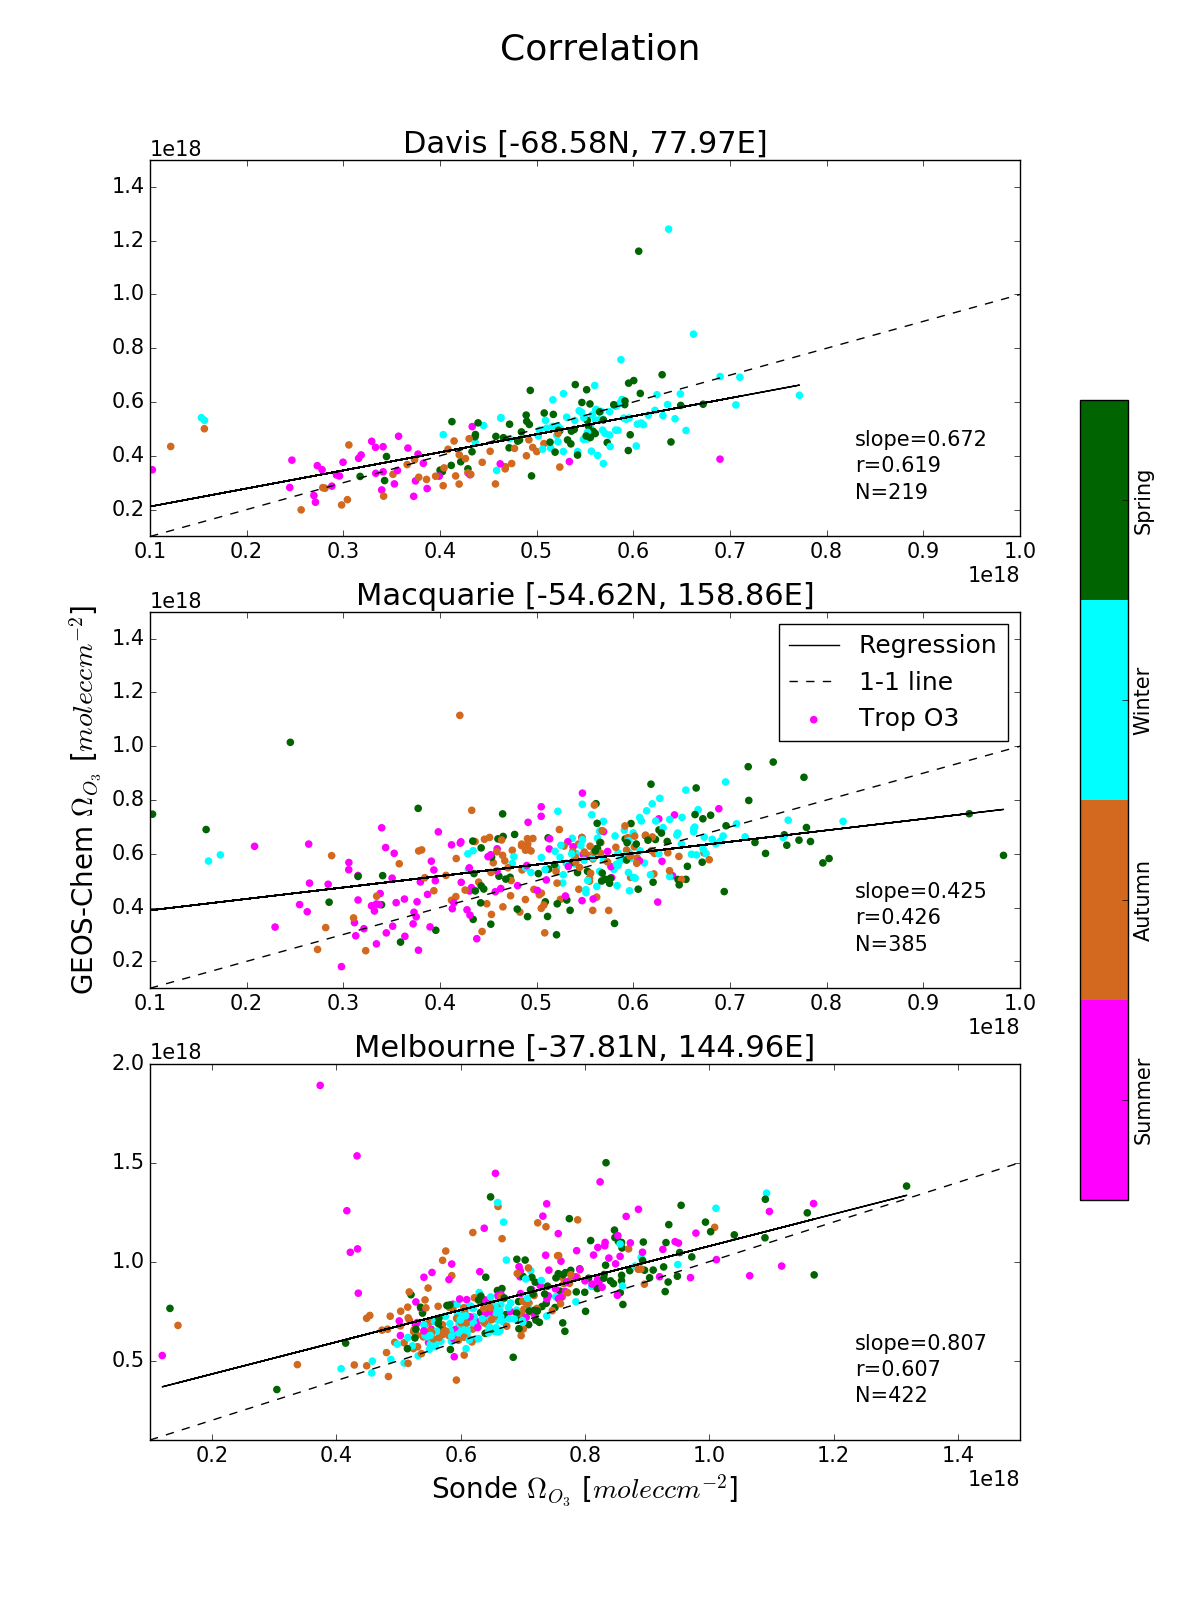
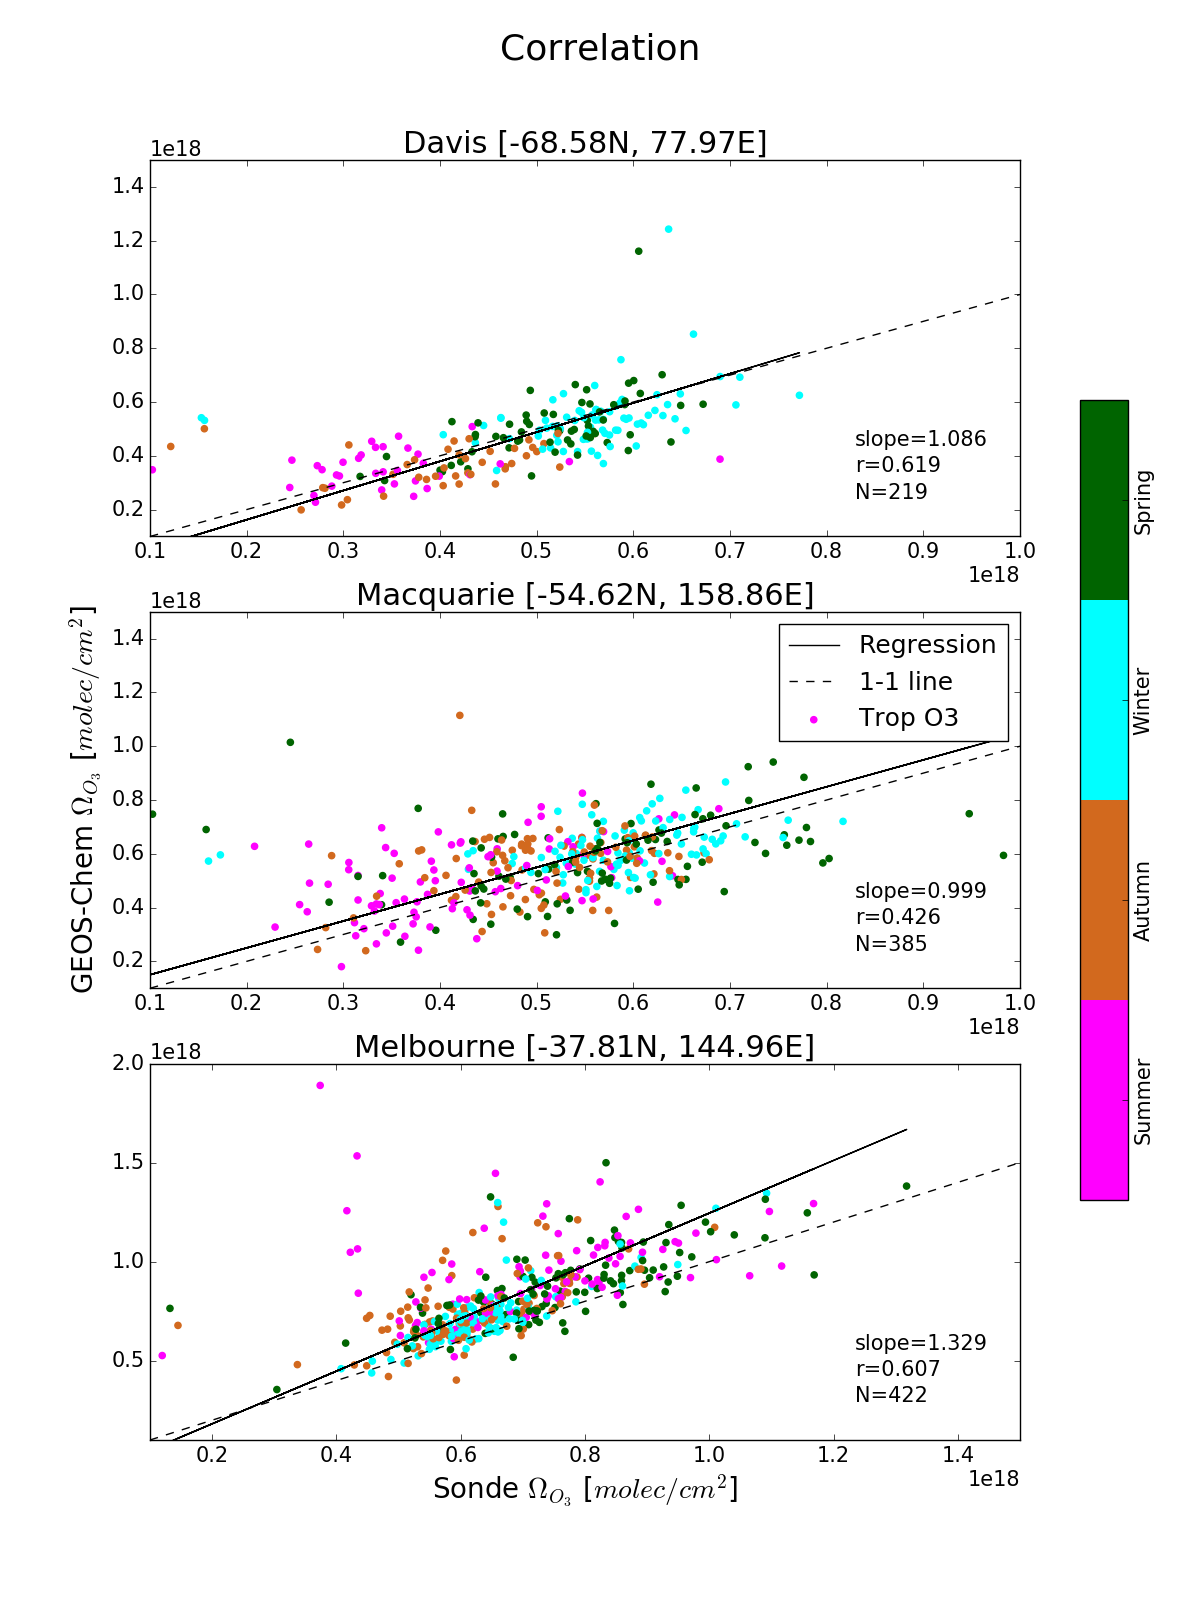
RMA regression added and used

diff --git a/examine_stations.py b/examine_stations.py
@@ -25,6 +25,7 @@ from scipy.constants import N_A # avegadro's number
 
 # Local module for reading sonde dataset
 import fio
+from JesseRegression import RMA
 
 # GLOBALS:
 #
@@ -1015,7 +1016,6 @@ def anomaly_correlation(outfile='images/correlations_anomalies.png'):
     '''
     plot correlation of monthly average anomalies between sondes and GC where both occur on the same day.
     '''
-    from scipy import stats
     
     # read the three files into a list
     files=[ fio.read_GC_station(f) for f in range(3) ]
@@ -1076,10 +1076,10 @@ def anomaly_correlation(outfile='images/correlations_anomalies.png'):
         
         Yos,Ygc = np.array(Yos),np.array(Ygc)
         # plot correlation coefficient
-        slope,intercept,r_value,p_value,std_err= stats.linregress(Yos,Ygc)
+        m,b0,r,ci1,ci2= RMA(Yos,Ygc)
         colors=cmap(season)
         f3ax.scatter(Yos, Ygc, color=colors, cmap=cmap, label='Trop O3')
-        f3ax.plot(Yos, intercept+slope*Yos, 'k-', label='Regression')
+        f3ax.plot(Yos, b0+m*Yos, 'k-', label='Regression')
         f3ax.plot([-1,1], [-1, 1], 'k--', label='1-1 line')
         f3ax.set_title(station)
         f3ax.set_ylim(ylim)
@@ -1089,10 +1089,10 @@ def anomaly_correlation(outfile='images/correlations_anomalies.png'):
         txty2=ylim[0]+0.17*(ylim[1]-ylim[0])
         txty3=ylim[0]+.24*(ylim[1]-ylim[0])
         plt.text(txtx,txty,"N=%d"%len(Yos))
-        plt.text(txtx,txty2,"r=%5.3f"%r_value)
-        plt.text(txtx,txty3,"slope=%5.3f"%slope)
+        plt.text(txtx,txty2,"r=%5.3f"%r)
+        plt.text(txtx,txty3,"slope=%5.3f"%m)
         if i==1: plt.legend()
-        print("%s: r^2=%5.3f, p=%5.3f"%(station,r_value**2, p_value))
+        print("%s: r^2=%5.3f"%(station,r**2))
     # set plot titles
     f3.suptitle('Relative anomaly from monthly mean',fontsize=21)
     
@@ -1120,15 +1120,14 @@ def correlation(outfile='images/correlations.png'):
     '''
     plot correlation between sondes and GC where both occur on the same day.
     '''
-    from scipy import stats
     
     # read the three files into a list
     files=[ fio.read_GC_station(f) for f in range(3) ]
     o3sondes = [fio.read_sonde(s) for s in range(3) ]
     
     f3, f3axes = plt.subplots(3, 1, figsize=(12,16))
-    f3axes[2].set_xlabel('Sonde $\Omega_{O_3}$ [$molec cm^{-2}$]',fontsize=20)
-    f3axes[1].set_ylabel('GEOS-Chem $\Omega_{O_3}$ [$molec cm^{-2}$]',fontsize=20)
+    f3axes[2].set_xlabel('Sonde $\Omega_{O_3}$ [$molec/cm^2$]',fontsize=20)
+    f3axes[1].set_ylabel('GEOS-Chem $\Omega_{O_3}$ [$molec/cm^2$]',fontsize=20)
     xlims=[[1e17,1e18], [1e17,1e18], [1e17,1.5e18]]
     ylims=[[1e17,1.5e18], [1e17,1.5e18], [1e17, 2e18]]
     ssnmap= {1:0,2:0,3:1,4:1,5:1,6:2,7:2,8:2,9:3,10:3,11:3,12:0} # map month to season:
@@ -1173,11 +1172,11 @@ def correlation(outfile='images/correlations.png'):
         
         Yos,Ygc = np.array(Yos),np.array(Ygc)
         # plot correlation coefficient
-        slope,intercept,r_value,p_value,std_err= stats.linregress(Yos,Ygc)
+        m,b0,r,ci1,ci2= RMA(Yos,Ygc)
         
         colors=cmap(season)
         f3ax.scatter(Yos, Ygc, color=colors, cmap=cmap, label='Trop O3')
-        f3ax.plot(Yos, intercept+slope*Yos, 'k-', label='Regression')
+        f3ax.plot(Yos, b0+m*Yos, 'k-', label='Regression')
         f3ax.plot(xlim, xlim, 'k--', label='1-1 line')
         f3ax.set_title(station,fontsize=22)
         f3ax.set_ylim(ylim)
@@ -1187,10 +1186,10 @@ def correlation(outfile='images/correlations.png'):
         txty2=ylim[0]+0.17*(ylim[1]-ylim[0])
         txty3=ylim[0]+.24*(ylim[1]-ylim[0])
         plt.text(txtx,txty,"N=%d"%len(Yos))
-        plt.text(txtx,txty2,"r=%5.3f"%r_value)
-        plt.text(txtx,txty3,"slope=%5.3f"%slope)
+        plt.text(txtx,txty2,"r=%5.3f"%r)
+        plt.text(txtx,txty3,"slope=%5.3f"%m)
         if i==1: plt.legend()
-        print("%s: r^2=%5.3f, p=%5.3f"%(station,r_value**2, p_value))
+        print("%s: r^2=%5.3f"%(station,r**2))
     # set plot titles
     f3.suptitle('Correlation',fontsize=26)
     
@@ -1250,7 +1249,7 @@ if __name__ == "__main__":
     print ("Running")
     #brief_summary()
     #summary_plots()
-    plot_andrew_STT()
+    #plot_andrew_STT()
     #check_extrapolation()
     #plot_SO_extrapolation()
     #seasonal_tropopause() # plot tpheights.png
@@ -1260,8 +1259,8 @@ if __name__ == "__main__":
     #time_series()
     #seasonal_profiles(hour=0,degradesondes=False)
     #monthly_profiles(hour=0,degradesondes=False)
-    #anomaly_correlation()
-    #correlation()
+    anomaly_correlation()
+    correlation()
     #yearly_cycle()
     #monthly_GC_profiles()
     #monthly_sonde_profiles()

diff --git a/JesseRegression.py b/JesseRegression.py
@@ -1,0 +1,108 @@
+# -*- coding: utf-8 -*-
+"""
+@author: jesse
+Notes:
+    This will be my standard regression package from now on.
+
+    The average math joke is mean.
+
+History:
+    Created on Thu Oct 20 09:16:33 2016
+
+"""
+from scipy import stats
+import numpy as np
+
+def OLS(X, Y):
+    '''  ORDINARY LEAST SQUARES
+    Assumes Y may have error, while X does not
+    uses scipy.stats.linregress
+    returns slope, intercept, r, p, sterr    
+    '''
+    return stats.linregress(X,Y)
+    
+def RMA(Xin, Yin, alpha = 0.05):
+    ''' REDUCED MAJOR AXIS (or GEOMETRIC MEAN REGRESSION)
+    
+    converted from http://au.mathworks.com/matlabcentral/fileexchange/27918-gmregress/content//gmregress.m
+    
+    This is a Model II procedure. It standardize variables before the 
+    slope is computed. Each of the two variables are transformed to have a 
+    mean of zero and a standard deviation of one. The resulting slope is
+    the geometric mean of the linear regression coefficient of Y on X. 
+    Ricker (1973) coined this term and gives an extensive review of Model
+    II regression. It is also known as Standard Major Axis.
+    
+    Inputs should be numpy arrays of matching size
+    Returns: v, u, r, CIr, CIjm
+        v = RMA slope
+        u = RMA intercept
+        CIr = CI for slope, intercept (Ricker method)
+        CIjm= CI for slope, intercept (Jolicoeur-Mosimann method)
+    '''
+    # remove all nan entries
+    ynan=np.isnan(Yin)    
+    xnan=np.isnan(Xin)
+    nans=xnan+ynan
+    Y,X=Yin[~nans],Xin[~nans]
+    
+    n=len(Y)
+    
+    r=np.corrcoef(X,Y)[0,1]     # correlation coeff
+    s=r/abs(r)                  # sign of r (+ or - 1)
+    S=np.cov(X,Y)               # covariance array
+    SCX=S[0,0]; SCY=S[1,1]; SCP=S[0,1]
+    v=s*np.sqrt(SCY/SCX)        # slope
+    u=np.mean(Y)-np.mean(X)*v;  # intercept
+    
+    # Ricker procedure for confidence interval:
+    SCv = SCY-(SCP**2)/SCX
+    N   = SCv/(n-2)
+    sv  = np.sqrt(N/SCX)
+    t   = stats.t.ppf(1-alpha/2.0, n-2) # critical t value
+    vi  = v-t*sv                # CI lower limit of slope
+    vs  = v+t*sv                # CI upper limit of slope
+    ui  = np.mean(Y)-np.mean(X)*vs  # lower CI limit of intercept
+    us  = np.mean(Y)-np.mean(X)*vi  # upper CI limit of intercept
+    
+    if ui>us:
+        tmp=ui; ui=us; us=tmp
+    if vi>vs:
+        tmp=vi; vi=vs; vs=tmp
+    
+    CIr=[[vi,vs],[ui,us]] # CI limits for slope, intercept
+    
+    # Jolicoeur and Mosimann procedure for confidence interval
+    F   = stats.f.ppf(1-alpha, 1, n-2) # critical F statistic
+    B   = F*(1-r**2)/(n-2.0)
+    a   = np.sqrt(B+1)
+    c   = np.sqrt(B)
+    qi = v*(a-c)                    # confidence lower limit of slope
+    qs = v*(a+c)                    # confidence upper limit of slope
+    pi = np.mean(Y)-np.mean(X)*qs   # confidence lower limit of intercept
+    ps = np.mean(Y)-np.mean(X)*qi   # confidence upper limit of intercept
+    if pi > ps:
+        tmp=pi; pi=ps; ps=tmp
+    if qi > qs:
+        tmp=qi; qi=qs; qs=tmp
+        
+    CIjm = [[qi,qs],[pi,ps]]
+    
+    return v, u, r, CIr, CIjm
+    
+# If you run the script directly you will see this example
+if __name__=='__main__':
+    import matplotlib.pyplot as plt
+    
+    Y=np.array([61,37,65,69,54,93,87,89,100,90,97],float)
+    X=np.array([14,17,24,25,27,33,34,37,40,41,42],float)
+    m1,b1,r1,ci1,ci2=RMA(X,Y)
+    m2,b2,r2,p,sterr=OLS(X,Y)
+    x=np.array([min(X),max(X)])
+    plt.scatter(X,Y)
+    plt.plot(x,m1*x+b1,'k',linewidth=2,label='Reduced Major Axis')
+    plt.plot(x,m2*x+b2,'fuchsia',linewidth=2,label='Ordinary Least Squares')
+    plt.legend(loc='best')
+    plt.title('Random example of regression')
+    plt.show()
+    
